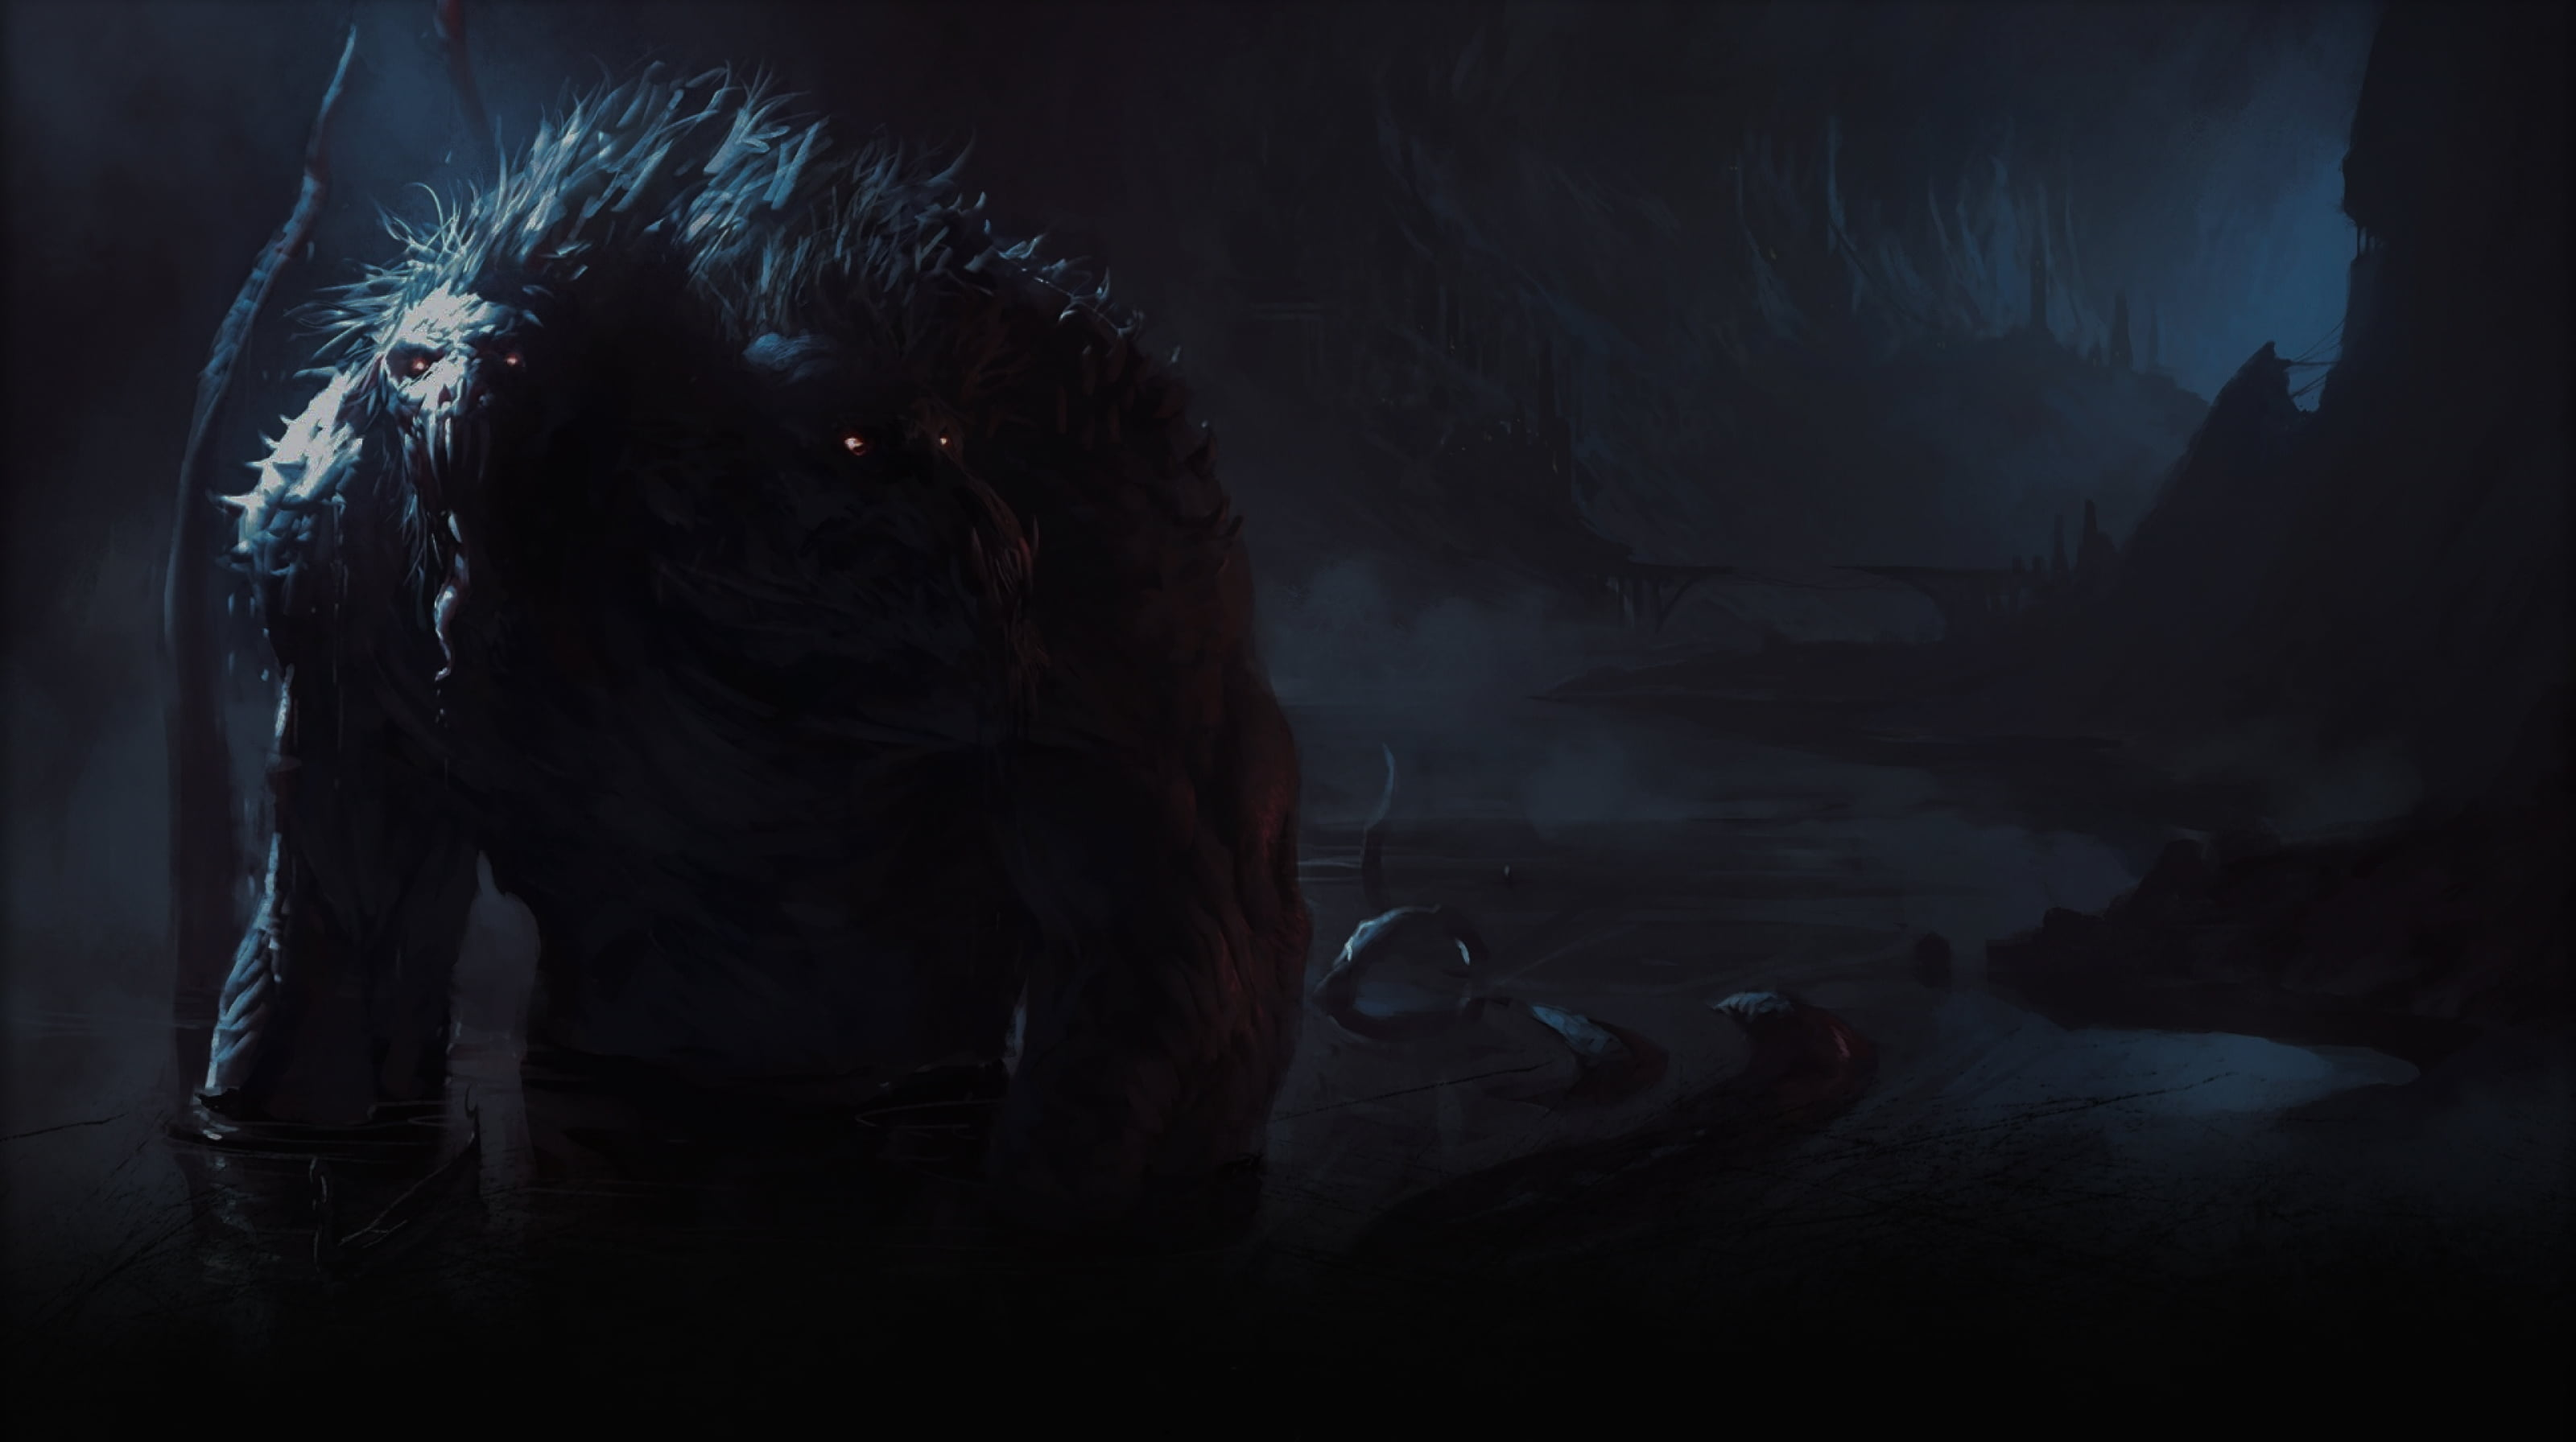
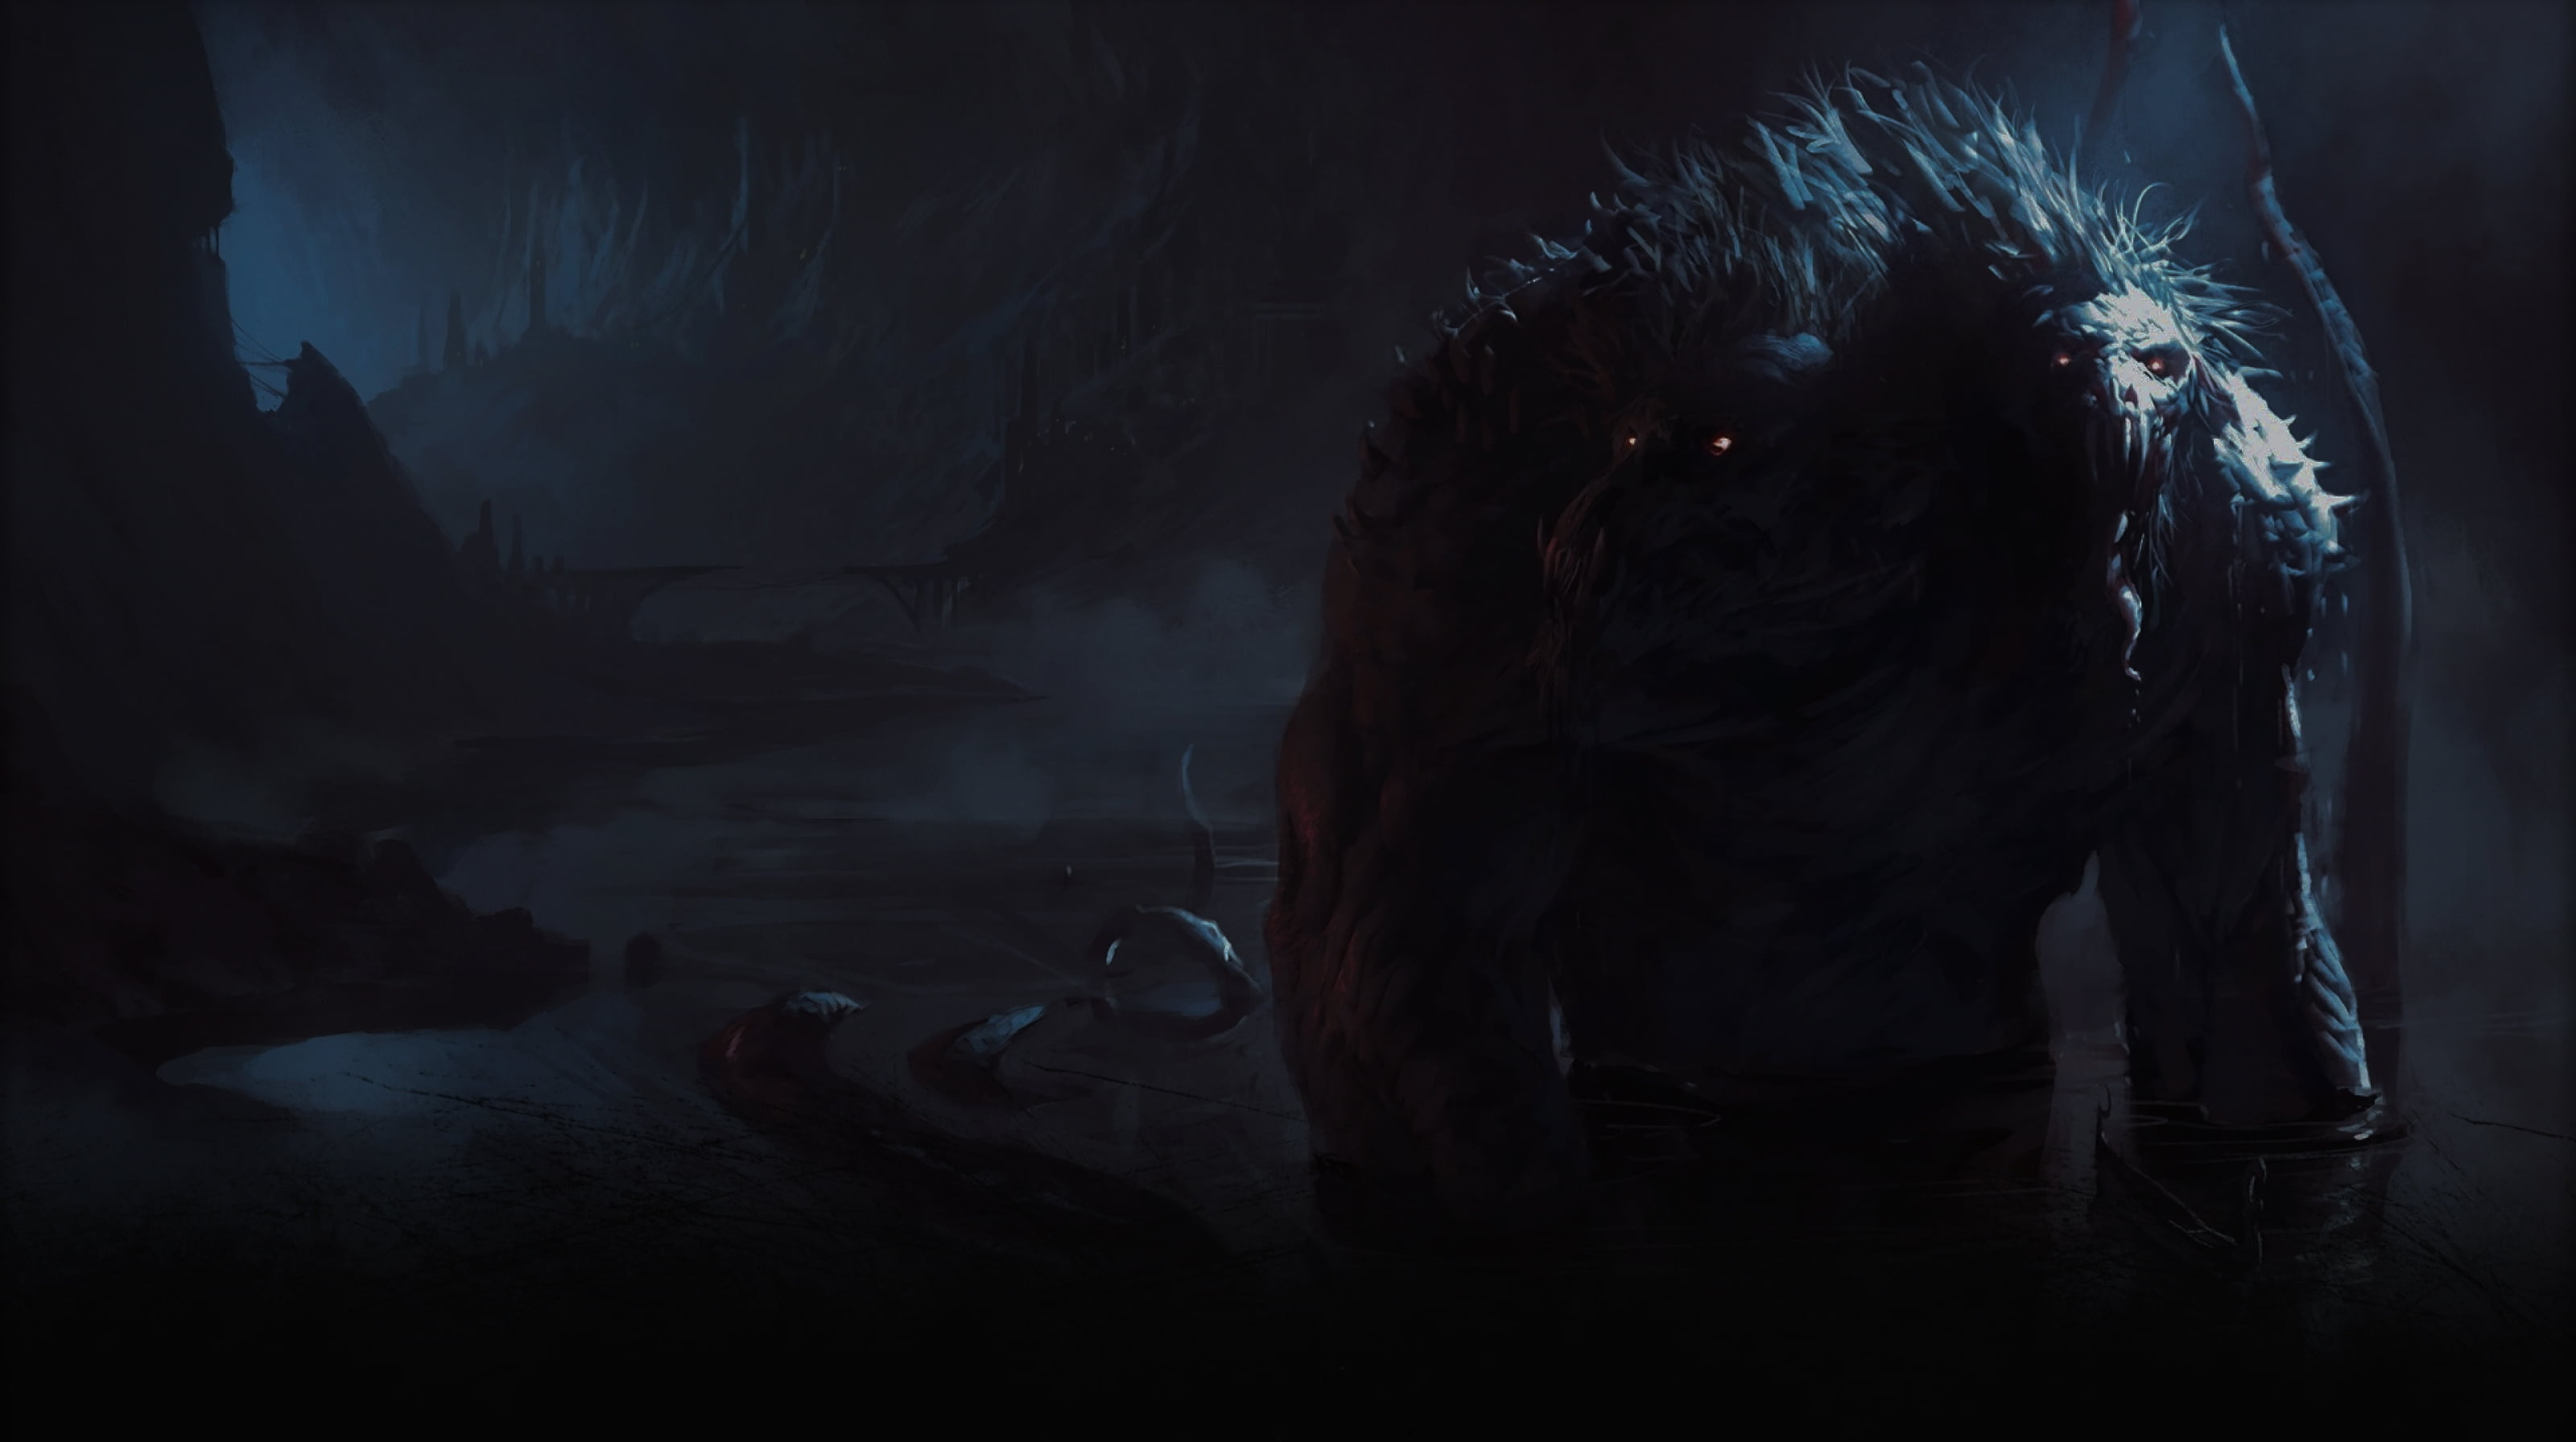
Novo media
Adicionei um novo media para o background-image de vantagens

diff --git a/conteudos/vantagens.css b/conteudos/vantagens.css
@@ -31,7 +31,7 @@
 .vantagens-lista li:hover {
   background: linear-gradient(#06070c, #06070c, #101320);
   border-radius: 20px;
-  box-shadow: 0px 2px 10px #dee2e6;
+  box-shadow: 0px 1px 5px var(--cor-w3);
 }
 
 .vantagens-lista li p {
@@ -69,11 +69,17 @@
   margin-bottom: 60px;
 }
 
+@media (max-width: 1000px) {
+  .vantagens-bg {
+    background-image: url("../imagens/vantagens/bg_vantagens_menor.jpg");
+  }
+}
+
 @media (max-width: 800px) {
   .vantagens-lista li {
     background: linear-gradient(#06070c, #06070c, #101320);
     border-radius: 20px;
-    box-shadow: 0px 2px 10px #dee2e6;
+    box-shadow: 0px 1px 5px var(--cor-w3);
   }
   .vantagens-lista[disable] li:hover {
     background: none;
